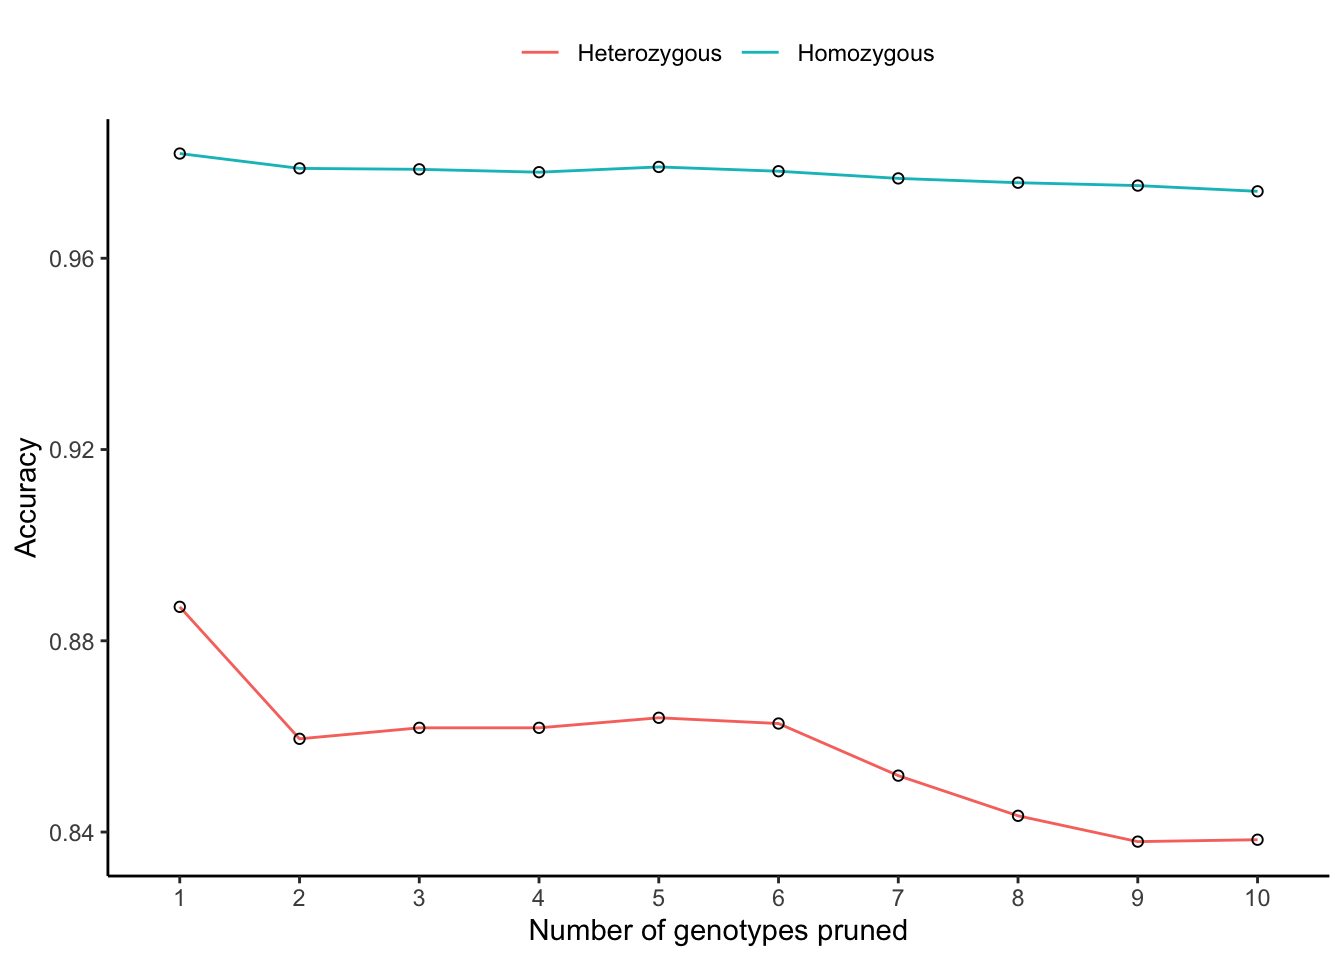
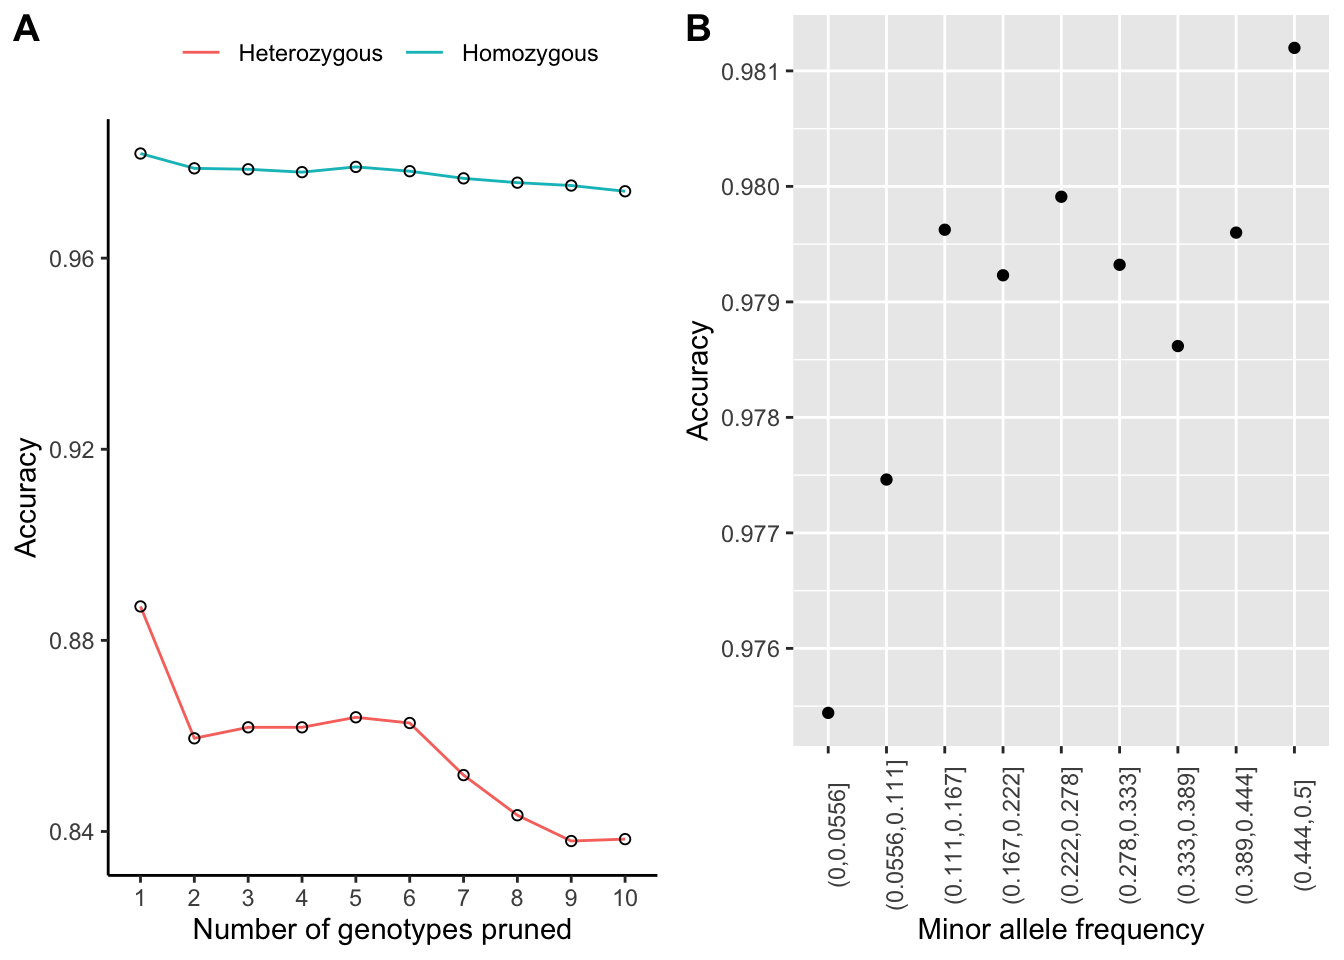
Fix typos and improve figure in 03.phasing

diff --git a/03.phasing.md b/03.phasing.md
@@ -42,16 +42,17 @@ We obtained **7,747,949** phased SNP sites in 74 samples.
 ### Imputation check
 
 To get an idea of the performance of the imputation step, we did a
-“masked analysis” with fully genotyped dataset. We used the script
-[prune\_vcf.py](scripts/prune_vcf.py) to prune genotypes randomly and do
-phasing again. After phasing, we compared the imputed genotypes and real
-genotypes then computed the accuracy using the script
+“masked analysis” with the fully genotyped dataset. We used the script
+[prune\_vcf.py](scripts/prune_vcf.py) to prune genotypes randomly at
+sites with high quality non-imputed genotype calls and do phasing again.
+After phasing, we compared the imputed genotypes and real genotypes then
+computed the accuracy using the script
 [compare\_vcf.py](scripts/compare_vcf.py).
 
 <img src="03.phasing_files/figure-gfm/unnamed-chunk-1-1.png" width="672" style="display: block; margin: auto;" />
 
-**Figure:** The imputation accuary at homo/heterozygous sites
-
-<img src="03.phasing_files/figure-gfm/unnamed-chunk-2-1.png" width="672" style="display: block; margin: auto;" />
-
-**Figure:** The imputation accuary summarised by MAF.
+**Figure 1:** Summary of imputation accuracy based on concordance of
+imputed and original values for high quality genotypes. (A) Shows the
+relationship between imputation accuracy and missingness (number of
+pruned genotypes) for homozygous and heterozygous calls. (B) Shows the
+relationship between overall accuracy and minor allele frequency.
